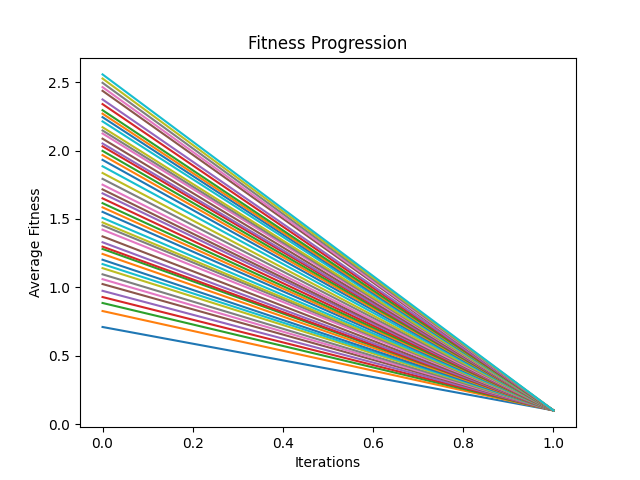
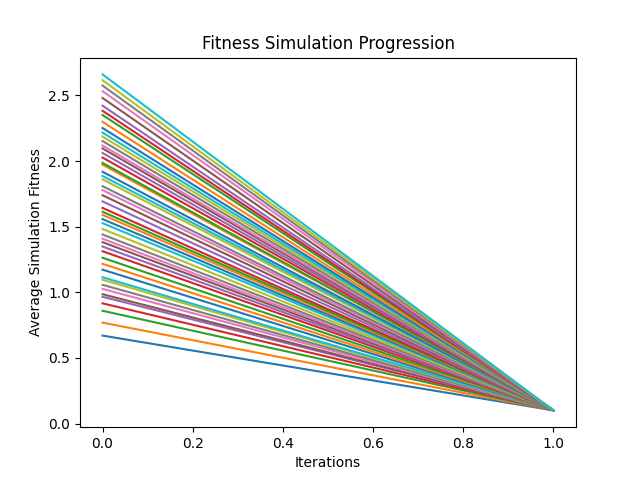
✅: programlet fitness test

diff --git a/src/programlet/app.py b/src/programlet/app.py
@@ -49,21 +49,30 @@ class Application(QMainWindow):
         self.app = MainProgram()
 
     def start_simulation(self):
-        # Görselleştirme
+        """
+        Simülasyon Fitness Değeri:
+        Bu, algoritmanın kendi içinde bir döngüde veya iterasyonda nasıl performans gösterdiğini ölçmek için kullanılır.
+        Aalgoritmanın her bir iterasyonunda veya jenerasyonunda elde edilen fitness değerlerinin ortalamasıdır.
+        Bu, algoritmanın zamanla nasıl geliştiğini veya değiştiğini görmek için kullanılır.
+        """
         fitness_history = self.app.start_simulation()
         plt.plot(fitness_history)
         plt.xlabel("Iterations")
-        plt.ylabel("Average Fitness")
-        plt.title("Fitness Progression")
+        plt.ylabel("Average Simulation Fitness")
+        plt.title("Fitness Simulation Progression")
         plt.show()
 
     def start_test(self):
-        # Görselleştirme
+        """
+        Test Fitness Değeri:
+        Bu, algoritmanın performansını ölçmek için kullanılır.
+        Test fitness değeri, algoritmanın belirli bir görevi ne kadar iyi gerçekleştirebildiğini gösterir.
+        """
         fitness_history = self.app.start_test()
         plt.plot(fitness_history)
         plt.xlabel("Iterations")
-        plt.ylabel("Average Fitness")
-        plt.title("Fitness Progression")
+        plt.ylabel("Average Test Fitness")
+        plt.title("Fitness Test Progression")
         plt.show()
 
 
